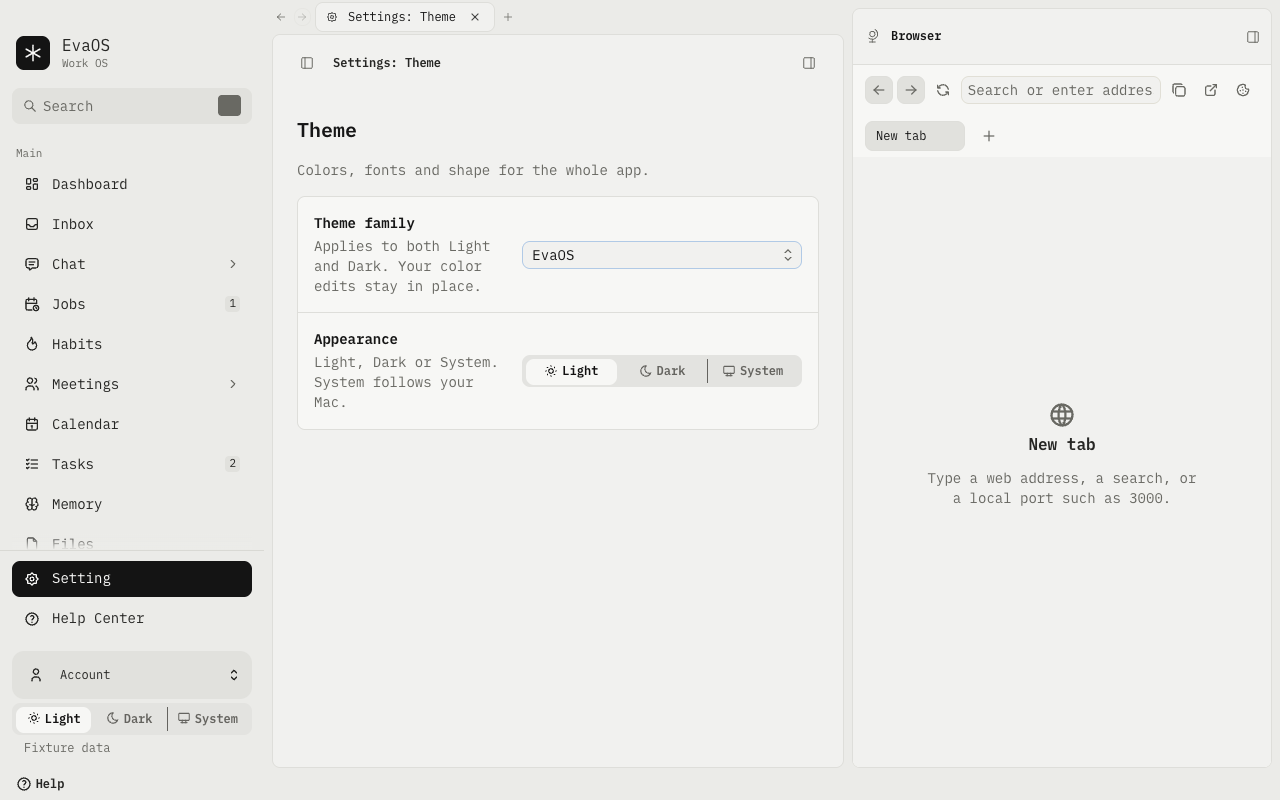
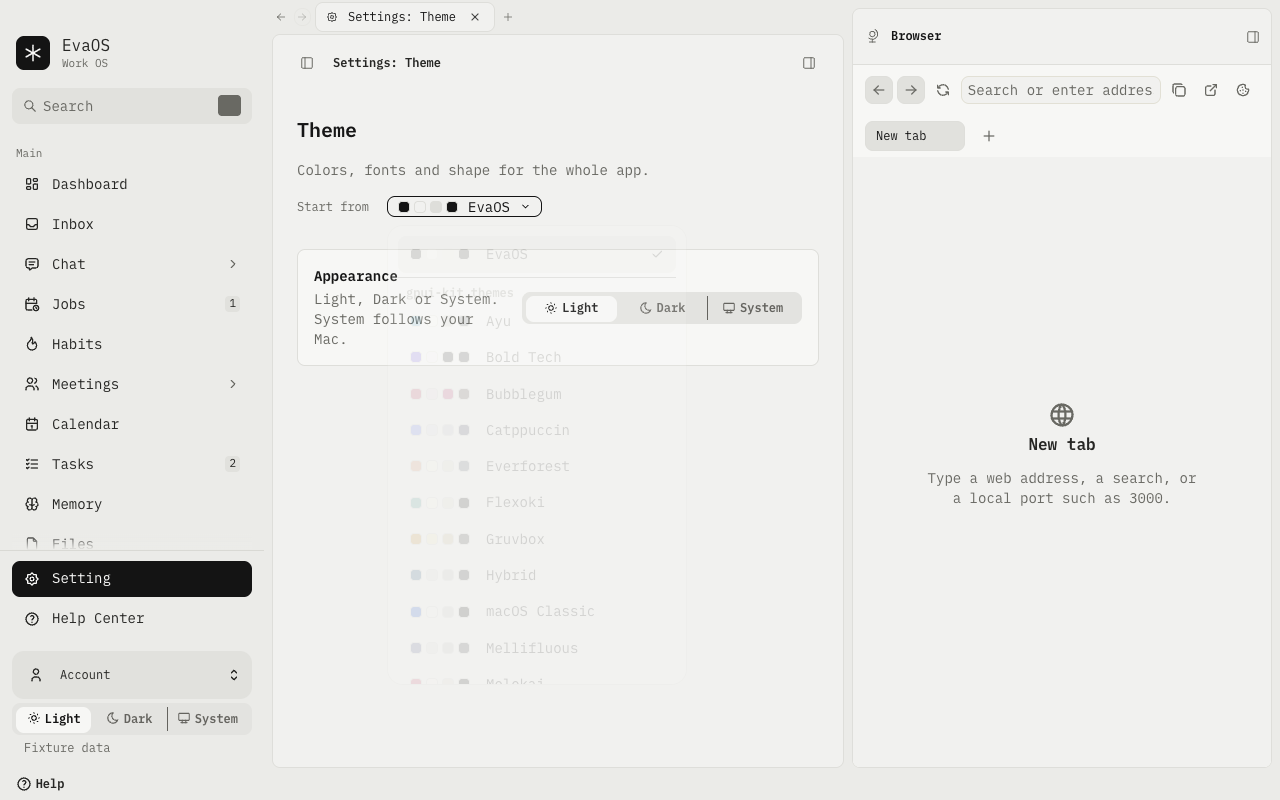
fix: match native theme picker swatches and menu

diff --git a/apps/desktop/src/renderer/settings/ThemeSection.tsx b/apps/desktop/src/renderer/settings/ThemeSection.tsx
@@ -1,18 +1,29 @@
-import { useEffect, useId, useState } from 'react'
-import { Select } from '@mantine/core'
+import { useEffect, useState } from 'react'
+import { Button, Menu } from '@mantine/core'
+import { IconCheck, IconChevronDown } from '@tabler/icons-react'
+import { getThemePreset } from '@evaos/theme-core'
 import { invoke } from '../ipc'
 import { setThemeBase, useTheme } from '../theme/theme-store'
 import { AppearanceControl } from '../theme/AppearanceControl'
 
+function Swatches({ family, mode }: { family: string; mode: 'light' | 'dark' }) {
+  const colors = getThemePreset(family, mode)?.colors
+  return (
+    <span className="eva-theme-swatches" aria-hidden="true">
+      {(['primary.background', 'background', 'border', 'foreground'] as const).map((key) => (
+        <span key={key} style={{ backgroundColor: colors?.[key] ?? 'var(--eva-border)' }} />
+      ))}
+    </span>
+  )
+}
+
 export function ThemeSection() {
-  const pickerId = useId()
-  const helpId = `${pickerId}-help`
   const base = useTheme((s) => s.doc.base)
+  const mode = useTheme((s) => s.resolved)
   const saving = useTheme((s) => s.baseSaving)
   const saveError = useTheme((s) => s.baseError)
   const [themes, setThemes] = useState<{ id: string; name: string }[] | null>(null)
   const [loadError, setLoadError] = useState<string | null>(null)
-
   useEffect(() => {
     let live = true
     void invoke('theme.list', {})
@@ -28,44 +39,60 @@ export function ThemeSection() {
       live = false
     }
   }, [])
-
   return (
     <>
+      <div className="eva-theme-preset-row">
+        <span className="eva-theme-preset-label">Start from</span>
+        <Menu
+          width={300}
+          position="bottom-start"
+          withinPortal
+          classNames={{ dropdown: 'eva-menu-dropdown', item: 'eva-menu-item' }}
+        >
+          <Menu.Target>
+            <Button
+              variant="outline"
+              size="sm"
+              data-testid="theme-family-picker"
+              aria-label="Theme family"
+              aria-busy={saving}
+              disabled={themes === null || saving || loadError !== null}
+              title="Theme for both Light and Dark"
+            >
+              <span className="eva-theme-preset-content">
+                <Swatches family={base} mode={mode} />
+                {base}
+                <IconChevronDown size={11} />
+              </span>
+            </Button>
+          </Menu.Target>
+          <Menu.Dropdown style={{ maxHeight: 460, overflowY: 'auto' }}>
+            {(themes ?? []).map(({ id, name }, index) => (
+              <div key={id}>
+                {index === 1 ? (
+                  <>
+                    <Menu.Divider />
+                    <Menu.Label>gpui-kit themes</Menu.Label>
+                  </>
+                ) : null}
+                <Menu.Item
+                  onClick={() => void setThemeBase(id)}
+                  leftSection={<Swatches family={id} mode={mode} />}
+                  rightSection={id === base ? <IconCheck size={14} aria-label="Selected" /> : null}
+                >
+                  {name}
+                </Menu.Item>
+              </div>
+            ))}
+          </Menu.Dropdown>
+        </Menu>
+      </div>
+      {(loadError ?? saveError) ? (
+        <p role="alert" className="eva-control-error">
+          {loadError ?? saveError}
+        </p>
+      ) : null}
       <div className="eva-settings-card">
-        <div className="eva-settings-row eva-settings-row-static eva-settings-theme-row">
-          <div className="eva-settings-label">
-            <label className="eva-settings-label-title" htmlFor={pickerId}>
-              Theme family
-            </label>
-            <span className="eva-settings-label-help" id={helpId}>
-              Applies to both Light and Dark. Your color edits stay in place.
-            </span>
-          </div>
-          <Select
-            id={pickerId}
-            data-testid="theme-family-picker"
-            className="eva-settings-theme-picker"
-            classNames={{
-              dropdown: 'eva-settings-theme-dropdown',
-              option: 'eva-settings-theme-option',
-            }}
-            aria-describedby={helpId}
-            aria-busy={saving}
-            data={(themes ?? [{ id: base, name: base }]).map(({ id, name }) => ({
-              value: id,
-              label: name,
-            }))}
-            value={base}
-            placeholder={base}
-            disabled={themes === null || saving || loadError !== null}
-            allowDeselect={false}
-            error={loadError ?? saveError}
-            errorProps={{ role: 'alert' }}
-            onChange={(value) => {
-              if (value !== null) void setThemeBase(value)
-            }}
-          />
-        </div>
         <div className="eva-settings-row eva-settings-row-static">
           <div className="eva-settings-label">
             <span className="eva-settings-label-title">Appearance</span>

diff --git a/apps/desktop/e2e/theme-picker.spec.ts b/apps/desktop/e2e/theme-picker.spec.ts
@@ -14,9 +14,12 @@ test('theme family applies without remount, preserves edits and survives relaunc
   await openTheme(shell)
   const before = await background(shell)
   await shell.evaluate(() => { (window as unknown as { __themeMarker: Element | null }).__themeMarker = document.querySelector('[data-testid=settings-theme]') })
-  const picker = shell.getByRole('combobox', { name: 'Theme family' })
+  const picker = shell.getByRole('button', { name: 'Theme family' })
   await picker.click()
-  await shell.getByRole('option', { name: 'Flexoki', exact: true }).click()
+  await expect(shell.getByRole('menuitem', { name: 'Flexoki', exact: true })).toBeVisible()
+  await expect(shell.getByRole('menu')).toHaveCSS('opacity', '1')
+  await shell.screenshot({ path: path.join('..', '..', 'proof', 'ux-parity', 'theme-picker-menu.png') })
+  await shell.getByRole('menuitem', { name: 'Flexoki', exact: true }).click()
   await expect.poll(() => background(shell)).not.toBe(before)
   const file = path.join(configDir, 'theme.json')
   await expect.poll(() => JSON.parse(fs.readFileSync(file, 'utf8')).base).toBe('Flexoki')
@@ -32,11 +35,11 @@ test('theme family applies without remount, preserves edits and survives relaunc
   try {
     const page = await second.firstWindow()
     await openTheme(page)
-    await expect(page.getByRole('combobox', { name: 'Theme family' })).toHaveValue('Flexoki')
+    await expect(page.getByRole('button', { name: 'Theme family' })).toContainText('Flexoki')
     await expect(page.locator('html')).toHaveAttribute('data-resolved', 'light')
     await expect.poll(() => page.evaluate(() => getComputedStyle(document.documentElement).getPropertyValue('--eva-c-ring').trim())).toBe('#abcdef')
-    await page.getByRole('combobox', { name: 'Theme family' }).click()
-    await page.getByRole('option', { name: 'EvaOS', exact: true }).click()
+    await page.getByRole('button', { name: 'Theme family' }).click()
+    await page.getByRole('menuitem', { name: 'EvaOS', exact: true }).click()
     await expect.poll(() => JSON.parse(fs.readFileSync(file, 'utf8')).base).toBe('EvaOS')
     const final = JSON.parse(fs.readFileSync(file, 'utf8'))
     expect(final.shared.ring).toBe('#abcdef')

diff --git a/apps/desktop/src/renderer/settings/settings.test.tsx b/apps/desktop/src/renderer/settings/settings.test.tsx
@@ -56,9 +56,9 @@ describe('SettingsPage', () => {
   it('loads the catalog and restores the selected family and appearance', async () => {
     initTheme('dark', parseThemeDoc({ base: 'Flexoki', app: { appearance: 'dark' } }))
     page('Theme')
-    const picker = screen.getByRole('combobox', { name: 'Theme family' })
+    const picker = screen.getByRole('button', { name: 'Theme family' })
     await waitFor(() => expect(picker).toBeEnabled())
-    expect(picker).toHaveValue('Flexoki')
+    expect(picker).toHaveTextContent('Flexoki')
     expect(screen.getByRole('radio', { name: 'Dark' })).toBeChecked()
     expect(invoke).toHaveBeenCalledWith('theme.list', {})
   })
@@ -69,13 +69,9 @@ describe('SettingsPage', () => {
     const picker = screen.getByTestId('theme-family-picker')
     await waitFor(() => expect(picker).toBeEnabled())
     await user.click(picker)
-    expect((await screen.findAllByRole('option')).map((option) => option.textContent)).toEqual([
-      'EvaOS',
-      'Flexoki',
-      'Gruvbox',
-    ])
-    await user.keyboard('{ArrowDown}{Enter}')
-    await waitFor(() => expect(picker).toHaveValue('Flexoki'))
+    await screen.findByRole('menuitem', { name: 'Flexoki' })
+    await user.keyboard('{ArrowDown}{ArrowDown}{Enter}')
+    await waitFor(() => expect(picker).toHaveTextContent('Flexoki'))
     expect(themeStore.getState().doc.base).toBe('Flexoki')
     expect(themeStore.getState().appearance).toBe('system')
     expect(invoke.mock.calls.filter(([channel]) => channel === 'theme.setBase')).toEqual([
@@ -99,9 +95,9 @@ describe('SettingsPage', () => {
     const picker = screen.getByTestId('theme-family-picker')
     await waitFor(() => expect(picker).toBeEnabled())
     await user.click(picker)
-    await user.click(await screen.findByRole('option', { name: 'Flexoki' }))
+    await user.click(await screen.findByRole('menuitem', { name: 'Flexoki' }))
     await waitFor(() => expect(screen.getByRole('alert')).toHaveTextContent('previous theme'))
-    expect(picker).toHaveValue('EvaOS')
+    expect(picker).toHaveTextContent('EvaOS')
     expect(picker).toBeEnabled()
     expect(themeStore.getState().doc.base).toBe('EvaOS')
   })

diff --git a/apps/desktop/src/renderer/settings/settings.css b/apps/desktop/src/renderer/settings/settings.css
@@ -70,29 +70,35 @@
   width: 280px;
   flex: none;
 }
-.eva-settings-theme-picker {
-  width: 280px;
+.eva-theme-preset-row {
+  display: flex;
+  align-items: center;
+  gap: var(--eva-space-native-sm);
+  margin-bottom: var(--eva-space-md);
+}
+.eva-theme-preset-label {
+  width: 78px;
+  flex: none;
+  color: var(--eva-text-dim);
+  font-size: var(--eva-fz-label);
+}
+.eva-theme-preset-content,
+.eva-theme-swatches {
+  display: inline-flex;
+  align-items: center;
+}
+.eva-theme-preset-content {
+  gap: var(--eva-space-native-xs);
+}
+.eva-theme-swatches {
+  gap: var(--eva-space-xs);
   flex: none;
 }
-.eva-settings-theme-dropdown {
-  background: var(--eva-c-popover-background);
-  color: var(--eva-c-popover-foreground);
-  border-color: var(--eva-c-border);
-}
-.eva-settings-theme-option[data-combobox-selected],
-.eva-settings-theme-option[data-combobox-active] {
-  background: var(--eva-c-accent-background);
-  color: var(--eva-c-accent-foreground);
-}
-@media (max-width: 600px) {
-  .eva-settings-theme-row {
-    align-items: stretch;
-    flex-direction: column;
-    gap: 8px;
-  }
-  .eva-settings-theme-picker {
-    width: 100%;
-  }
+.eva-theme-swatches > span {
+  width: 12px;
+  height: 12px;
+  border: 1px solid var(--eva-border);
+  border-radius: var(--eva-radius-sm);
 }
 .eva-switch {
   --switch-width: 40px;

diff --git a/TRY.md b/TRY.md
@@ -63,6 +63,7 @@ Headless and test launches set `EVAOS_E2E=1` (background accessory app) and `EVA
 - Verified second pass: 1,074 unit tests and 184 Electron scenarios passed, 2 opt-in scenarios skipped; typecheck/build clean. Native reference captures and wide/compact Electron proof are under `proof/ux-parity/`. Escape abort retains precedence over sidebar Back while the composer is focused and replying. Category action hit targets and drag across a scrolled list are exercised.
 - Settings > Theme now offers a live theme-family picker for 13 paired native families. Selection and appearance persist in the port's own `theme.json`; shared/per-mode edits and unknown document fields survive base changes. Failed saves roll back the family and display an error. Full color/font editing remains deferred.
 - Theme-picker verification: typecheck/build clean, 1,086 unit tests passed and 8 Electron settings/theme scenarios passed, including live switch without remount, Light mode, relaunch, override preservation and switching back. Screenshot: `proof/ux-parity/theme-picker.png`.
+- Picker presentation now follows native `theme_editor.rs`: compact “Start from” outline trigger, four color swatches in the trigger and each menu row, selected checkmark, separate EvaOS entry and “gpui-kit themes” section, 300px menu width and 460px scroll cap. This matches the picker, not the still-deferred full property editor/preview layout.
 
 ## Missing versus current EvaOS
 
